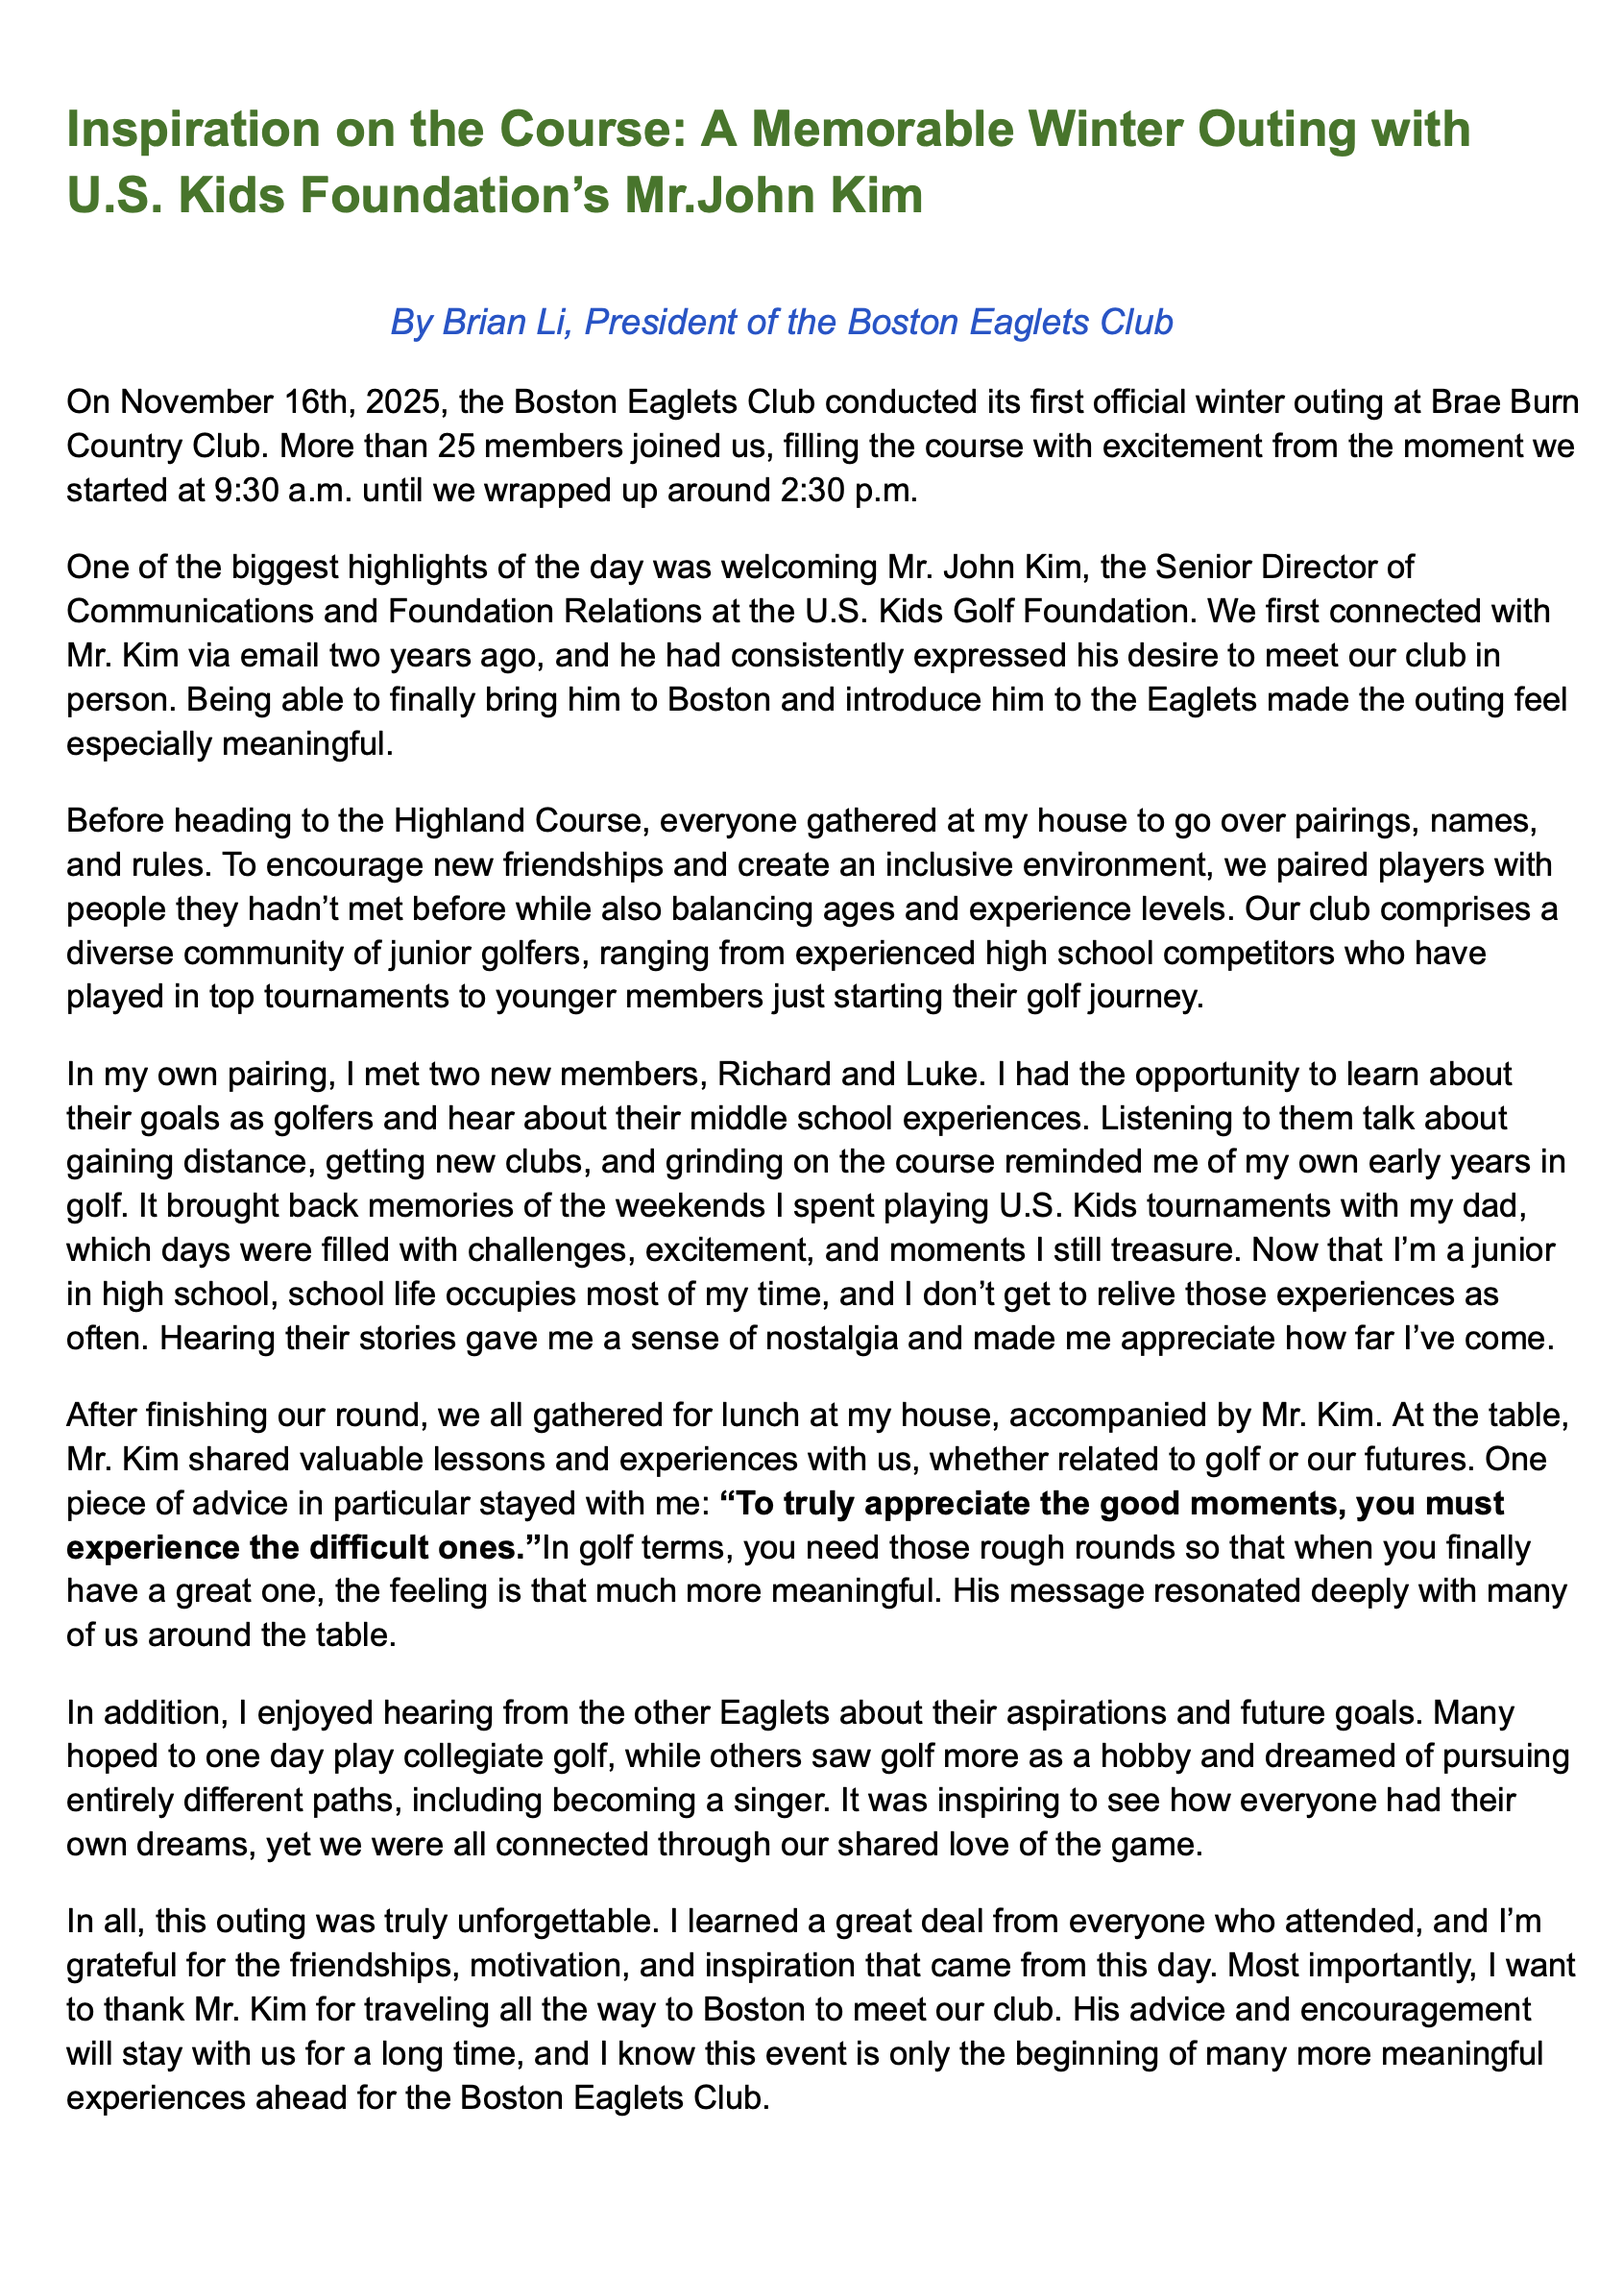
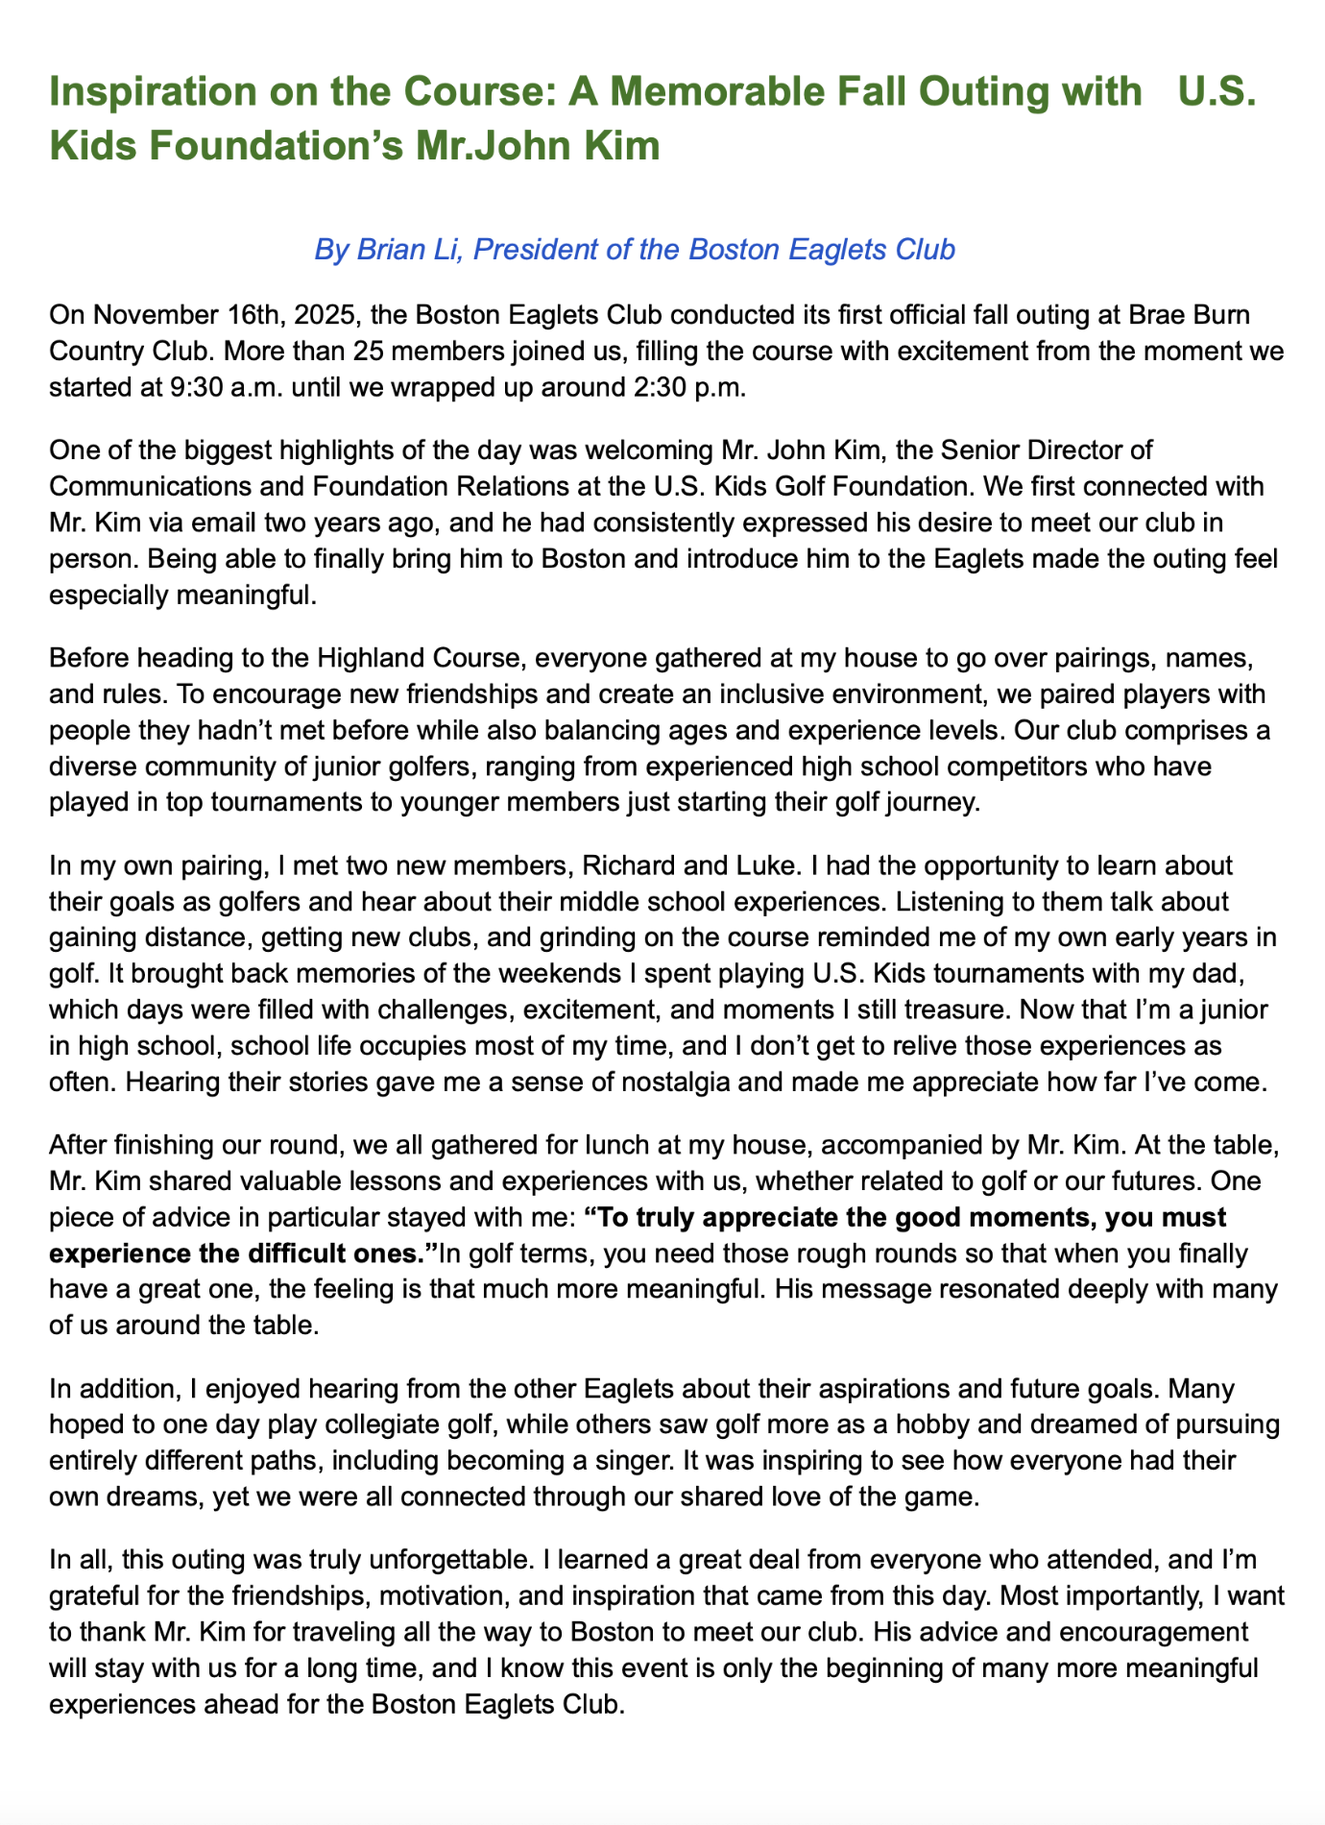
small changes and addition of an article

Changed region(s): [[0.0312, 0.1242, 0.9659, 0.9626], [0.0312, 0.0311, 0.9348, 0.0932]]

diff --git a/src/main.py b/src/main.py
@@ -15,7 +15,8 @@ NAVBAR =(
 EVENTS_PAST =(
     
     {'title':'2025 Boston Fall Fundraising Event 🎃⛳', 'link': '/crc/6+My%20First%20Volunteering%20Experience%20at%20US%20Kids%20Golf', 'time': '2025-10-25', 'detail': """What a weekend at Falmouth Country Club! Perfect weather, great swings, and plenty of Halloween spirit made it a truly memorable Fall Season Championship. The kids had a blast (and yes, we made sure to have plenty of candy 🍬).We're thrilled to share that we raised over $2,100 for the U.S. Kids Golf Foundation — helping support future tournaments and create even more amazing experiences for junior golfers.A huge thank-you to all the volunteers and families who made this event such a success. See you next season — until then, keep swinging and have a spooktacular Halloween! 👻"""},
-    {'title':'Fundraising at Us Kids 2024 Fall Season Championship', 'time': '2024-10-26', 'detail': "The 2024 Fall Season Championship at Falmouth Country Club was the first event where the Boston Eaglets Club volunteered together on the course. Our team helped raise over $2,000 for the foundation to support future tournaments. These funds will help U.S. Kids Golf host upcoming events at higher-quality courses and create even better experiences for junior golfers in the seasons ahead.A big thank-you to all the volunteers who helped make this event a success — and we can't wait to see even more young golfers join us next season!"}
+    {'title':'Fundraising at Us Kids 2024 Fall Season Championship', 'time': '2024-10-26', 'detail': "The 2024 Fall Season Championship at Falmouth Country Club was the first event where the Boston Eaglets Club volunteered together on the course. Our team helped raise over $2,000 for the foundation to support future tournaments. These funds will help U.S. Kids Golf host upcoming events at higher-quality courses and create even better experiences for junior golfers in the seasons ahead.A big thank-you to all the volunteers who helped make this event a success — and we can't wait to see even more young golfers join us next season!"},
+    {'title':'Eaglets Soar at Their First Fall Golf Day at Brae Burn Country Club', 'time': '2025-11-16', 'detail':"The Boston Eaglets Golf Club held its first fall golf meet on a sunny but windy Sunday at the Brae Burn Country Club, marking a memorable milestone for the young golfers and their growing community.Despite strong, cold winds and wet grass, every participant played with remarkable focus and determination. Members completed nine holes in groups of four, finishing strong and forming new friendships along the way. Spirits stayed high throughout the morning as players encouraged one another through tricky shots, slippery fairways, and unpredictable gusts of wind.After the round, the groups gathered for a warm lunch inside the house of golfer Brian Li and his family. The Eaglets were honored to be joined by a senior leader from U.S. Kids Golf, who met with the players to discuss the future of the Boston Eaglets program. Over the delicious meal, he shared stories from his career, offered uplifting words, and reminded the young golfers to stay dedicated, confident, and resilient both on and off the course.The kids also had the opportunity to speak about their hopes for the Boston Eaglets, especially their mission to build a more diverse, welcoming, and talent-filled club. Ideas for future events were shared, including plans aimed at bringing more golf-enthusiastic girls into the sport and expanding participation across all backgrounds.The afternoon ended on an encouraging note, with the special guest's motivating message and his genuine support for the club's goals. As the players left the event, the sense of excitement for upcoming meets and events was unmistakable.The Boston Eaglets extend their gratitude for the inspiring visit of Mr. John Kim and look forward to continuing the momentum throughout the next few years."}
 )
 for item in EVENTS_PAST:
     item['short']= item['detail']
